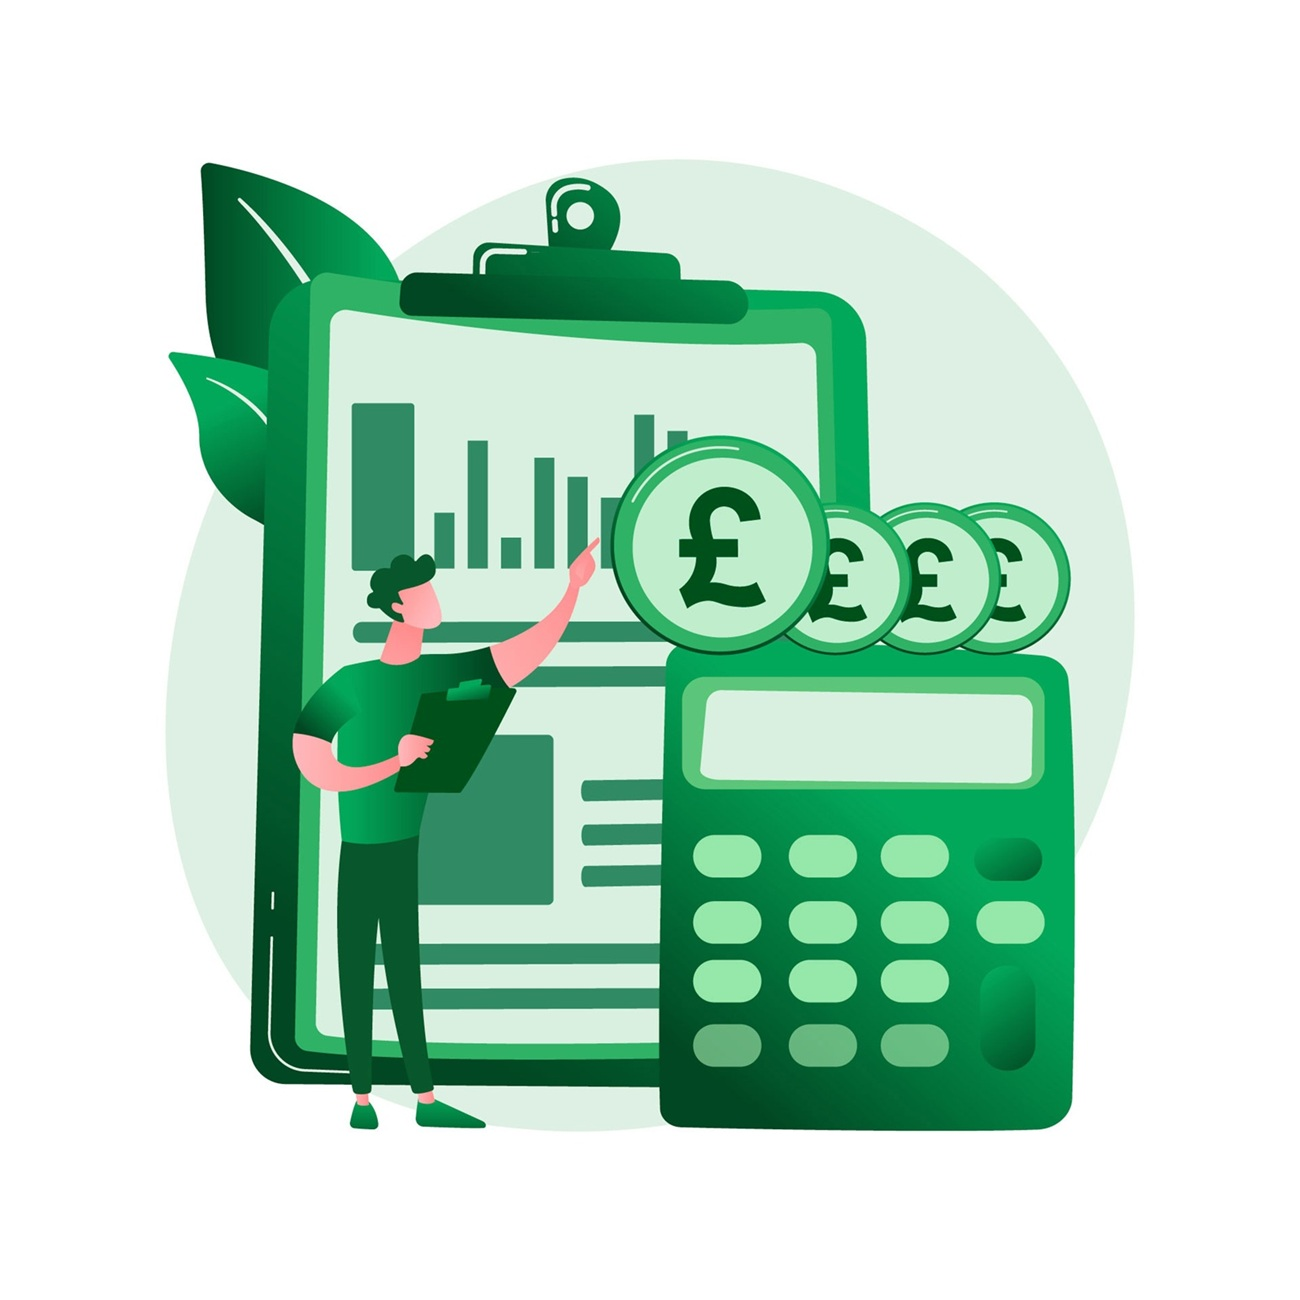
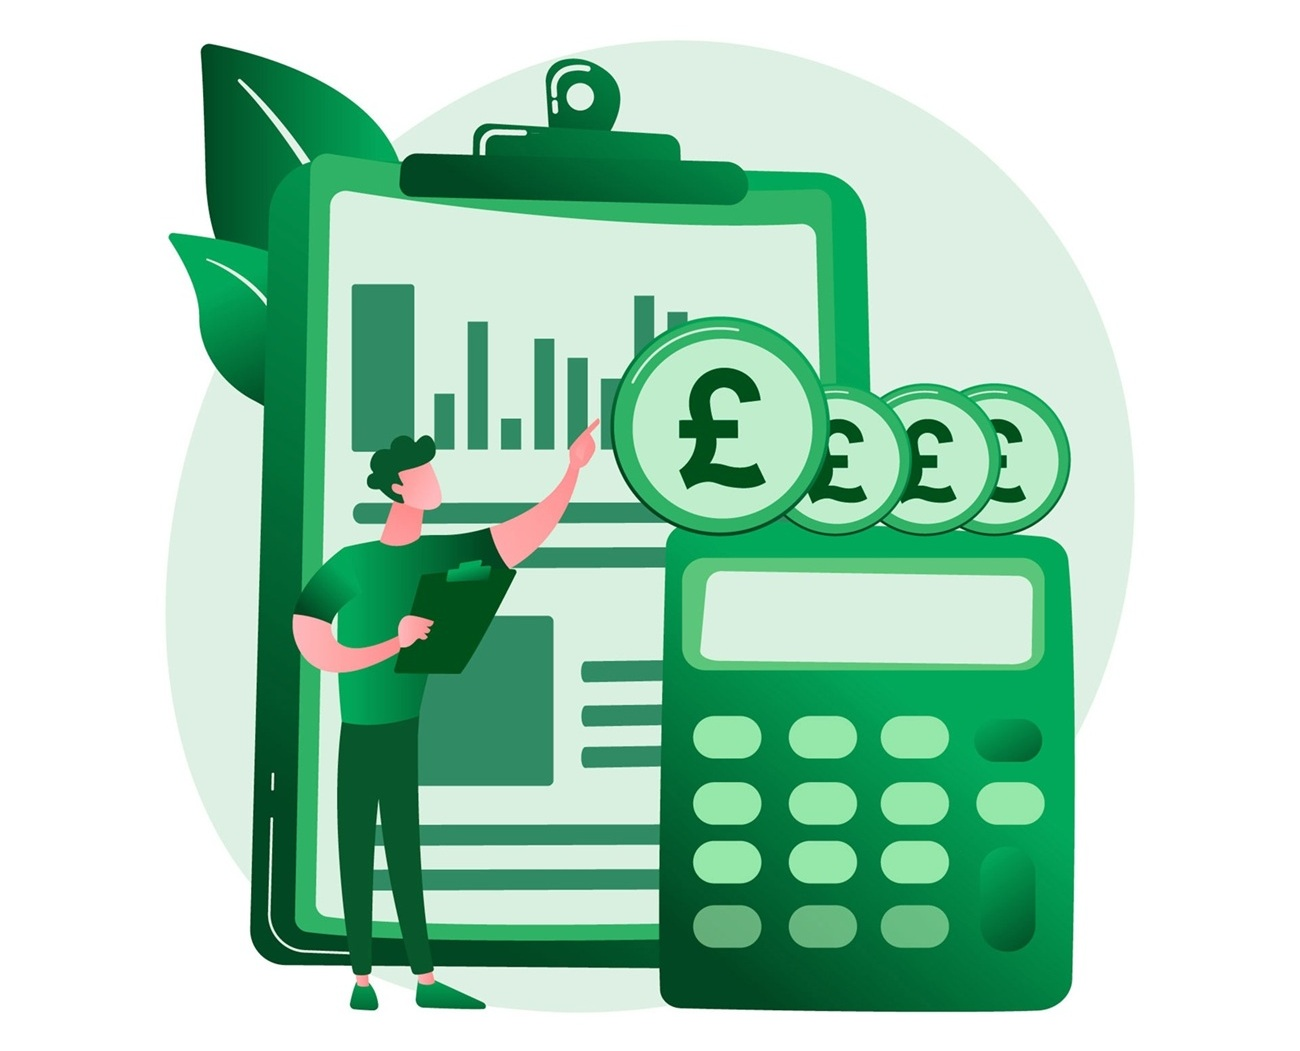
modification taille photo

Changed region(s): [[0.1231, 0.0304, 0.8615, 0.9743]]

diff --git a/css/style.css b/css/style.css
@@ -304,7 +304,7 @@ body.contact-active .nav-logo-center {
 .slide-media img {
     border-radius: 10px;
     object-fit: cover;
-    max-width: 66%;
+    max-width: 75%;
 }
 
 /* ── Grid 2×2 ── */